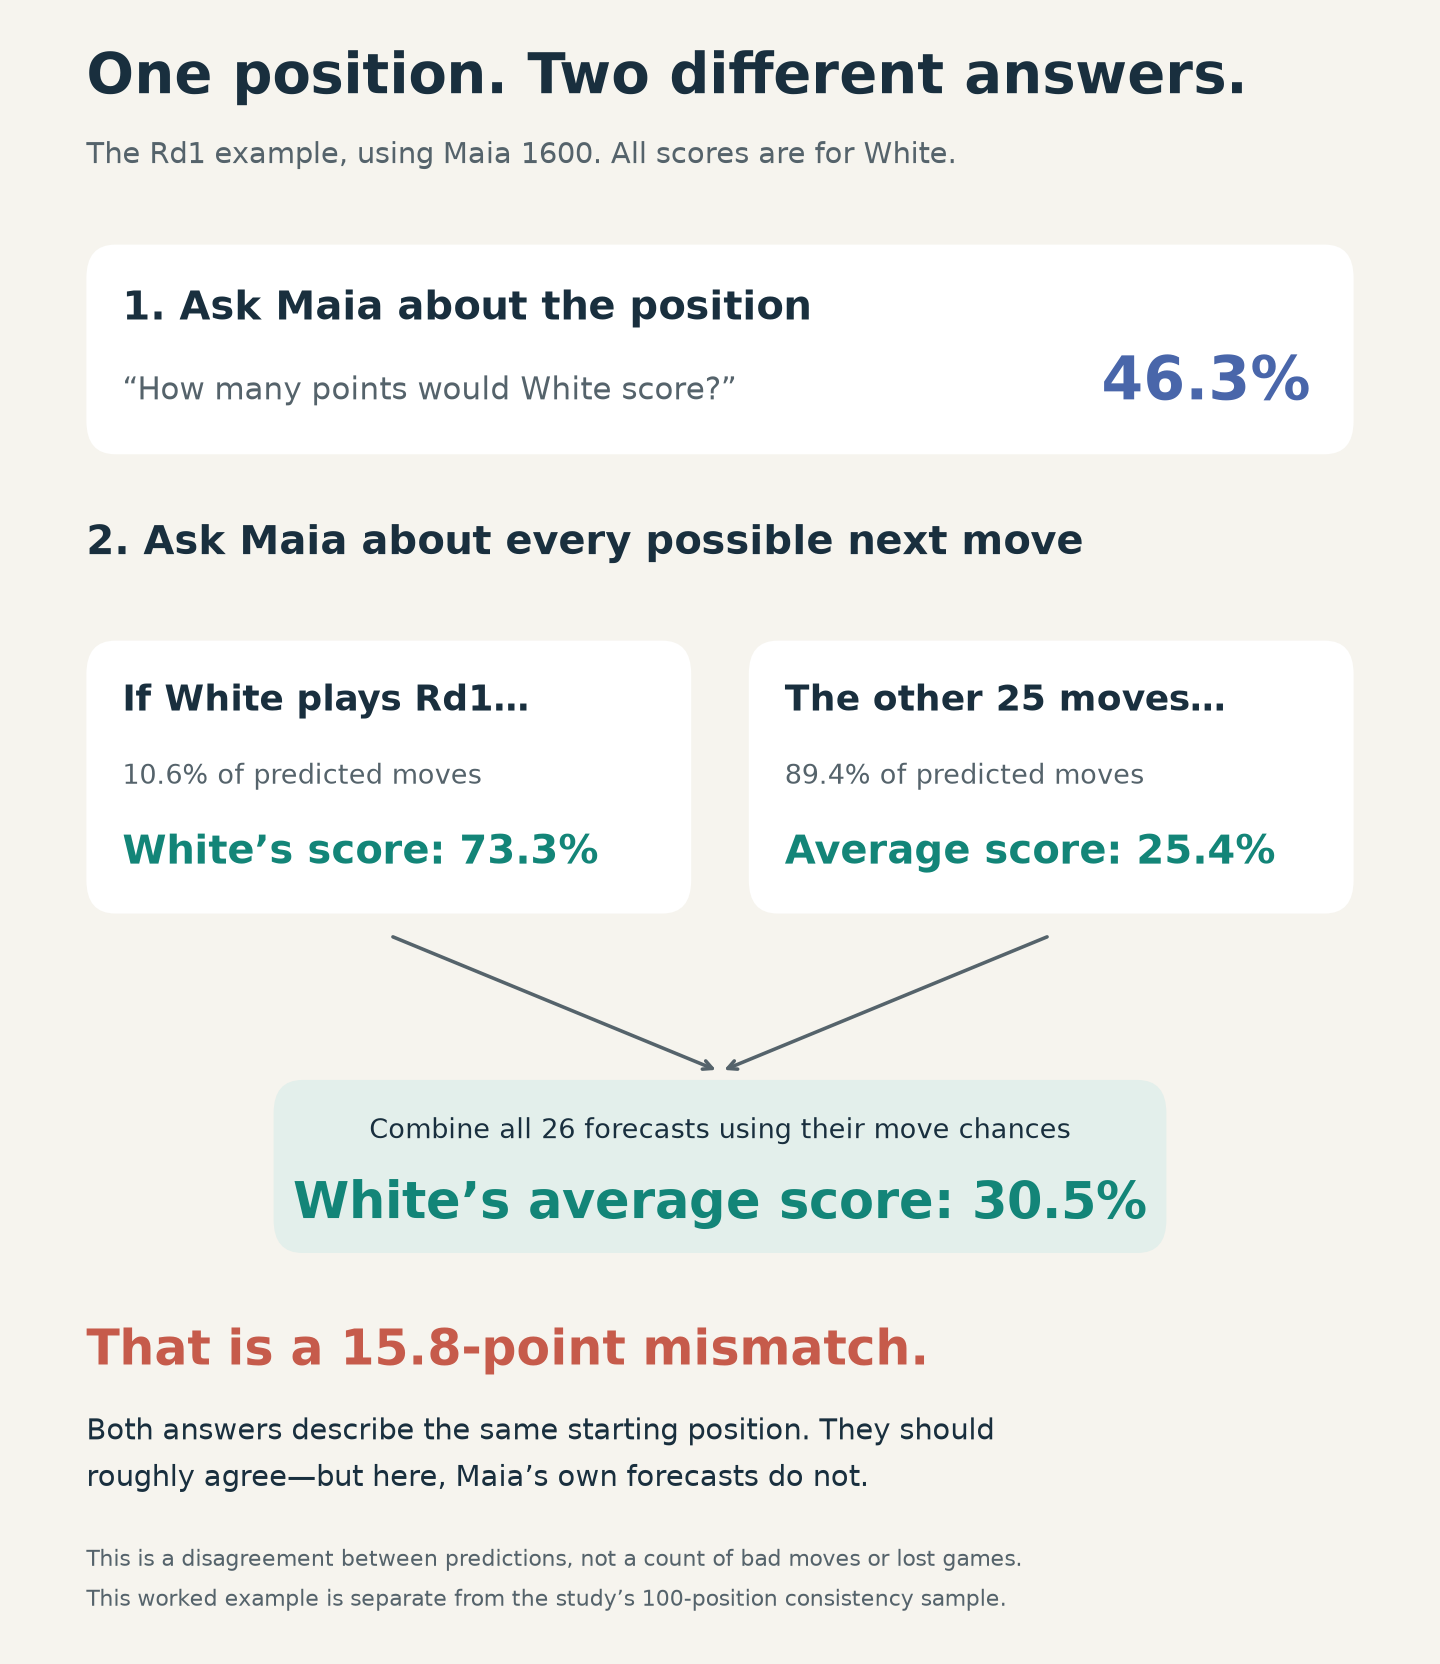
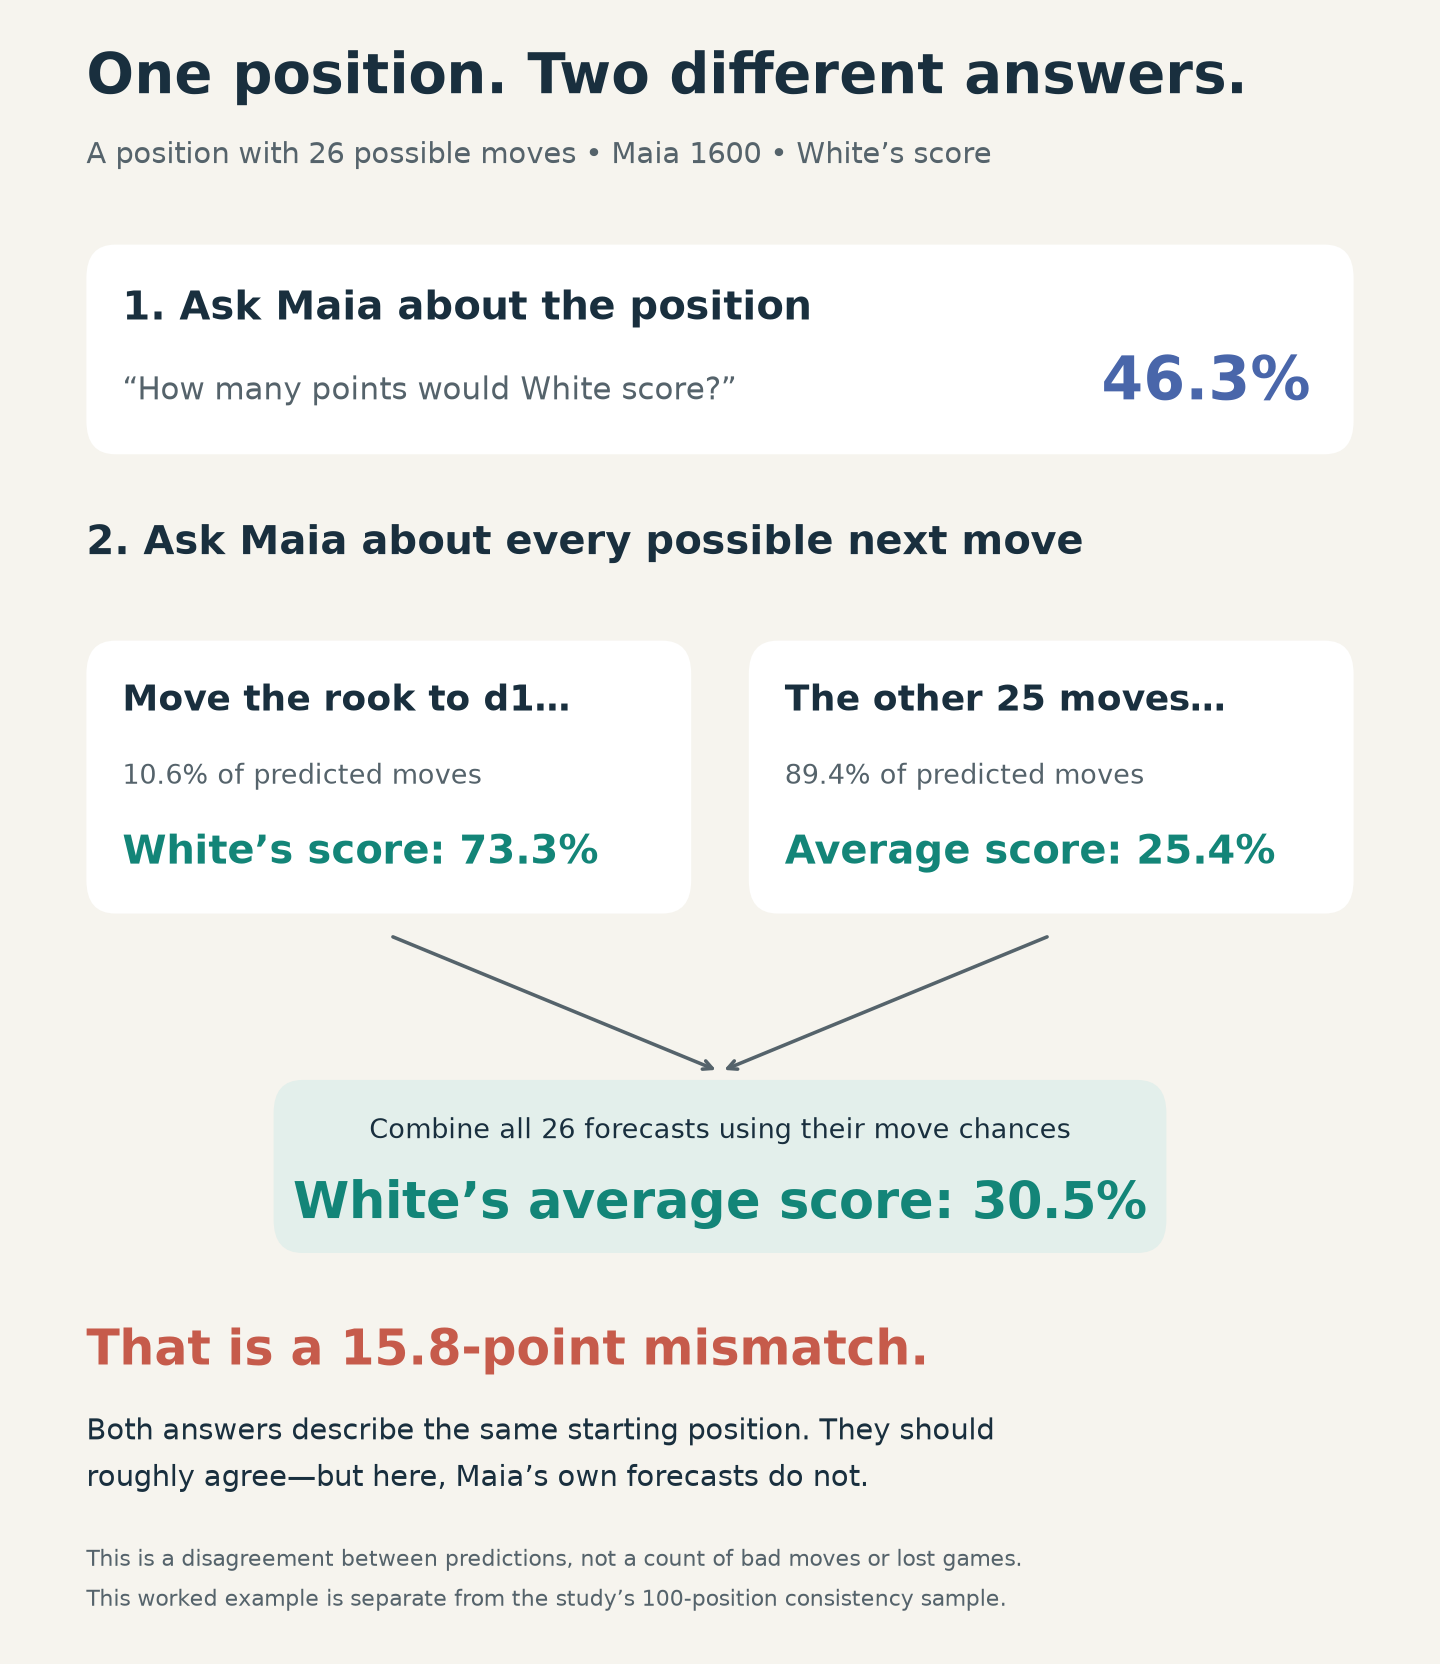
Rewrite score guide for readers new to the feature and research

Changed region(s): [[0.0625, 0.0625, 0.3438, 0.125], [0.375, 0.0625, 0.6562, 0.0938], [0.0938, 0.4062, 0.375, 0.4375]]

diff --git a/studies/score-reliability-2026-10-27/build_visuals.py b/studies/score-reliability-2026-10-27/build_visuals.py
@@ -70,14 +70,14 @@ case=json.loads((ROOT/'data/known-case-consistency.json').read_text())
 s=next(x for x in case['summary'] if x['elo']==1600)
 fig,ax=plt.subplots(figsize=(9,10.4));fig.subplots_adjust(0,0,1,1);ax.set(xlim=(0,1),ylim=(0,1));ax.axis('off');fig.patch.set_facecolor(BG)
 text(ax,.06,.944,'One position. Two different answers.',25,weight='bold')
-text(ax,.06,.902,'The Rd1 example, using Maia 1600. All scores are for White.',13,color=MUTED)
+text(ax,.06,.902,'A position with 26 possible moves • Maia 1600 • White’s score',13,color=MUTED)
 box(ax,.06,.727,.88,.126,'#FFFFFF')
 text(ax,.085,.808,'1. Ask Maia about the position',18,weight='bold')
 text(ax,.085,.760,'“How many points would White score?”',14,color=MUTED)
 text(ax,.91,.760,f"{100*s['parentWhiteScore']:.1f}%",27,color=BLUE,weight='bold',ha='right')
 text(ax,.06,.667,'2. Ask Maia about every possible next move',18,weight='bold')
 box(ax,.06,.451,.42,.164,'#FFFFFF');box(ax,.52,.451,.42,.164,'#FFFFFF')
-text(ax,.085,.573,'If White plays Rd1…',16,weight='bold')
+text(ax,.085,.573,'Move the rook to d1…',16,weight='bold')
 text(ax,.085,.529,f"{100*s['rd1Probability']:.1f}% of predicted moves",12,color=MUTED)
 text(ax,.085,.481,f"White’s score: {100*s['rd1WhiteScore']:.1f}%",18,color=TEAL,weight='bold')
 text(ax,.545,.573,'The other 25 moves…',16,weight='bold')

diff --git a/studies/score-reliability-2026-10-27/REPORT.md b/studies/score-reliability-2026-10-27/REPORT.md
@@ -1,68 +1,94 @@
-# Can you trust Maia’s score?
+# Understanding Maia’s score %
 
-**Yes, for the overall picture. Be cautious with the exact number.**
+**Maia’s score is a useful guide to who is favoured. Treat the exact percentage
+as an estimate, especially when it changes sharply after a move.**
 
-We checked **1,000 human games—500 near each rating—** and tested how consistently Maia evaluated
-**100 positions**. All time-forfeit games were excluded.
+In Mobile Maia, the score percentage forecasts how human players at a given
+rating would do from the position on the board. This guide looks at the
+**M1600 and M2600** estimates: predictions for players around 1600 and 2600.
 
-> **What does “White 60%” mean?**
-> Maia expects White to score about **60 points per 100 games**.
-> A win earns 1 point; a draw earns ½. It does **not** mean 60 wins.
+## What does the percentage mean?
 
-## Does the score match what happens in real games?
+Imagine many games continuing from the same position. A forecast of **White 60%**
+means Maia expects White to earn about **60 points per 100 games**, with a win
+worth 1 point and a draw worth ½. For example, 50 wins and 20 draws would earn
+60 points. Black would earn the remaining 40.
 
-**Broadly, yes.** In these games, higher scores generally went with better
-results for White. Both ratings were more useful than simply saying “50%”
-every time.
+This is different from a **move percentage**, which predicts how likely a player
+is to choose a particular move. It is also different from Stockfish’s evaluation:
+Maia is forecasting human results, including human mistakes.
 
-Read the bars in pairs: **blue is Maia’s forecast; green is what the players
-actually scored.** Close bars mean the forecast was close for that group.
+All the charts below show the score from **White’s perspective**.
 
-![Maia 1600: predicted and actual points, shown as paired bars for all five score ranges](figures/visual-results-1600.png)
+## How well does it match real games?
 
-The 2600 check now also uses **500 games**. Every row shows its game count;
-**One group stands out:** forecasts averaging **31%** were followed by just
-**19 points per 100 games**, across 78 games. Maia was too optimistic about
-White in that group. The other four groups were within about 1–4 points.
-Uncertainty intervals and source details are in the appendix.
+We checked **500 human games near 1600 and 500 near 2600**, taking one position
+from each game and comparing Maia’s forecast with the eventual result. All were
+online blitz games; games ending in a time forfeit were excluded.
 
-![Maia 2600: predicted and actual points across 500 games](figures/visual-results-2600.png)
+**Higher forecasts generally went with better results.** At both ratings, Maia
+was more informative than always predicting an even score.
 
-## What did we mean by “Maia disagrees with itself”?
+The charts group similar forecasts together. Read each pair of bars:
+**blue is what Maia expected; green is what the players actually scored.**
+Close bars mean the forecast matched the results for that group.
 
-**We asked about the same position in two ways.** Here is the position from
-the game that prompted this study:
+### Maia 1600: the groups line up well
 
-![Worked Rd1 example: Maia gives White 46.3 percent directly, but averaging its move-by-move forecasts gives 30.5 percent](figures/visual-worked-example.png)
+Across the five groups, forecasts and results were within about **1–4 points
+per 100 games** of each other.
 
-The **46.3% and 30.5% are both Maia’s predictions**. Neither is an observed game
-result. The gap tells us its answers do not fit together—not which answer is right.
+![Maia 1600: paired bars compare predicted and actual White scores across 500 games](figures/visual-results-1600.png)
 
-The calculation is simply **10.6% × 73.3 + 89.4% × 25.4 ≈ 30.5**.
-Rd1 raises White’s chances, but Maia expects White to choose it only about one
-time in ten at 1600. Averaging over the other moves is what matters here.
-At 2600, this same example was much closer: **41.6% directly versus 38.8%
-after averaging**. A jump after one move alone is not evidence of inconsistency.
+### Maia 2600: useful, but one group was too optimistic
 
-We repeated that check on **100 positions**. Gaps larger than 10 percentage points
-appeared in **9 positions at 1600** and **15 at 2600**. Those are counts of
-mismatched forecasts, **not bad moves, lost games, or how often Maia predicted
-the wrong winner**. The detailed check remains in the appendix.
+In the group where Maia’s forecasts averaged **31%**, White actually earned
+about **19 points per 100 games**. That group contained 78 games. The other
+four groups were within about 1–4 points.
 
-## How I’d use it
+So a higher Maia rating does not automatically make the score more trustworthy.
 
-- **Read the overall picture:** roughly equal, one side favoured, or a strong advantage.
-- **Treat small changes gently.** A change from 58% to 61% is not a precise measurement of improvement.
-- **Check the moves when the score jumps.** Finding a good move can genuinely improve human chances; the model can also be inconsistent.
-- **Choose history mode for how you want Maia to play.** Turning it on or off made no clear difference to score reliability in this study.
+![Maia 2600: paired bars show a noticeable gap in the 20–40 percent forecast group](figures/visual-results-2600.png)
 
-**Useful guidance, with room for doubt.** That’s the right level of confidence
-for this display—not a promise about how a particular game will finish.
+## Why can the score jump after a move?
+
+**Playing a good move can improve the forecast.** Before the move, Maia has to
+allow for the possibility that the player will choose something weaker. Once
+the good move is on the board, that uncertainty is gone.
+
+But the model’s predictions can also fail to fit together. To check this, we
+compared its score for a position with the average of its scores after **every
+legal move**, giving likely moves more weight than unlikely ones. Those two
+forecasts should roughly agree.
+
+Here is a concrete example with **26 possible moves**, evaluated at 1600.
+Maia gives White **46.3%** before the move. Moving a rook to d1 raises its
+forecast to **73.3%**, but it expects players to choose that move only about
+**one time in ten**. Its forecasts after the other moves are much lower.
+
+![A 26-move example: Maia’s direct forecast is 46.3 percent, while averaging its forecasts after all possible moves gives 30.5 percent](figures/visual-worked-example.png)
+
+Combining all 26 possibilities gives **30.5%**, well below the original
+**46.3%**. That **15.8-point gap** shows that Maia’s forecasts do not fully fit
+together here. Both numbers are predictions; the comparison cannot tell us
+which is closer to the true scoring chance.
+
+In a separate check of **100 positions**, gaps larger than 10 percentage points
+occurred in **9 positions at 1600** and **15 at 2600**. This measures consistency
+between predictions, rather than how often Maia gets the winner wrong.
+
+## How to use the score while playing
+
+- **Look at the broad picture:** roughly equal, one side favoured, or a strong advantage.
+- **Avoid reading too much into a few points.** A change from 58% to 61% is not a precise measure of improvement.
+- **Look at the moves when the score jumps.** It may reflect a good move being found, an inconsistent forecast, or both.
+- **Use move analysis alongside the percentage.** The score describes human prospects; the moves help explain what makes the position promising or difficult.
+
+The app’s optional move-history setting lets Maia consider the preceding
+positions. Turning it on or off made no clear difference to score reliability
+in this study.
 
 ---
 
-*Tested on normal-ending online blitz games near 1600 and 2600. The percentages
-remain approximate forecasts, not guarantees about individual games.*
-
-[Detailed results, original charts and limitations →](APPENDIX.md) ·
+[Detailed results and limitations →](APPENDIX.md) ·
 [Data, methods and reproduction →](README.md)

diff --git a/studies/score-reliability-2026-10-27/APPENDIX.md b/studies/score-reliability-2026-10-27/APPENDIX.md
@@ -31,9 +31,9 @@ probability that Maia predicts a particular move will be played.
 Each stage’s selection rules were fixed before its predictions. The expansion
 was requested after the initial results were inspected; it was not a single
 untouched preregistered sample. Original predictions and the 100-position
-consistency sample were preserved unchanged. The earlier Rd1 example
-was kept separate. No app changes, strength tournament or Stockfish evaluation
-were involved. [Protocol](PROTOCOL.md) · [Evidence and reproduction](README.md)
+consistency sample were preserved unchanged. A separate illustrative position,
+where White can move a rook to d1 (Rd1 in chess notation), was kept outside the
+sample. No app changes, strength tournament or Stockfish evaluation were involved. [Protocol](PROTOCOL.md) · [Evidence and reproduction](README.md)
 
 ## 1. The scores contain useful information about human results
 
@@ -123,12 +123,12 @@ A large gap does not identify which forecast is wrong. The weighted continuation
 score is another model estimate, not the true human scoring chance. Conversely,
 a small gap would not prove accuracy.
 
-The motivating Rd1 example illustrates this distinction. Its original White
-score and weighted continuation score were **46.26% versus 30.50% at 1600**, but
+The separate rook-to-d1 example used in the visual guide illustrates this
+distinction. Its original White score and weighted continuation score were **46.26% versus 30.50% at 1600**, but
 **41.55% versus 38.76% at 2600**. That particular example made 1600 look much less
 consistent; the broader sample shows that large disagreements can occur at
 both ratings. The example is excluded from every headline statistic above; its
-[full earlier calculation](data/known-case-consistency.json) is retained separately.
+[full move-by-move calculation](data/known-case-consistency.json) is retained separately.
 
 ## 3. History did not clearly change outcome-prediction reliability here
 

diff --git a/studies/score-reliability-2026-10-27/README.md b/studies/score-reliability-2026-10-27/README.md
@@ -36,10 +36,11 @@ winning probabilities.
   `data/consistency-summary.csv`: spreadsheet-readable summaries.
 - `data/selection.json`: eligibility/attrition and actual cohort coverage.
 - `data/run.json`: model, source, input and executable hashes and runtime versions.
-- `data/known-case-sanity.json`: the earlier Rd1 example, isolated from the random
-  sample. Eight parent/child/rating/history scores match the earlier reproduction.
-- `data/known-case-consistency.json`: retained earlier all-26-move calculation
-  for the isolated Rd1 illustration; its weighted sums are checked in
+- `data/known-case-sanity.json`: the separate rook-to-d1 example used in the visual guide,
+  isolated from the random sample. Eight scores covering both positions, ratings
+  and history settings match its original reproduction.
+- `data/known-case-consistency.json`: the all-26-move calculation
+  for the isolated rook-to-d1 illustration; its weighted sums are checked in
   `data/known-case-calculation-check.json`.
 - `figures/`: static PNG and SVG charts.
 - `SHA256SUMS`: published file checksums, excluding this checksum file itself.
@@ -168,4 +169,4 @@ A game score is 1 for a win, 0.5 for a draw, and 0 for a loss. Squared-error
 reduction is a comparison against the same sample's always-50% forecast, not a
 percentage of correctly predicted winners. The weighted child forecast is another
 model-derived estimate, not ground truth. Histories and positions are fixed before
-each stage’s inference; the known Rd1 example is never pooled into study results.
+each stage’s inference; the illustrative rook-to-d1 example is never pooled into study results.
